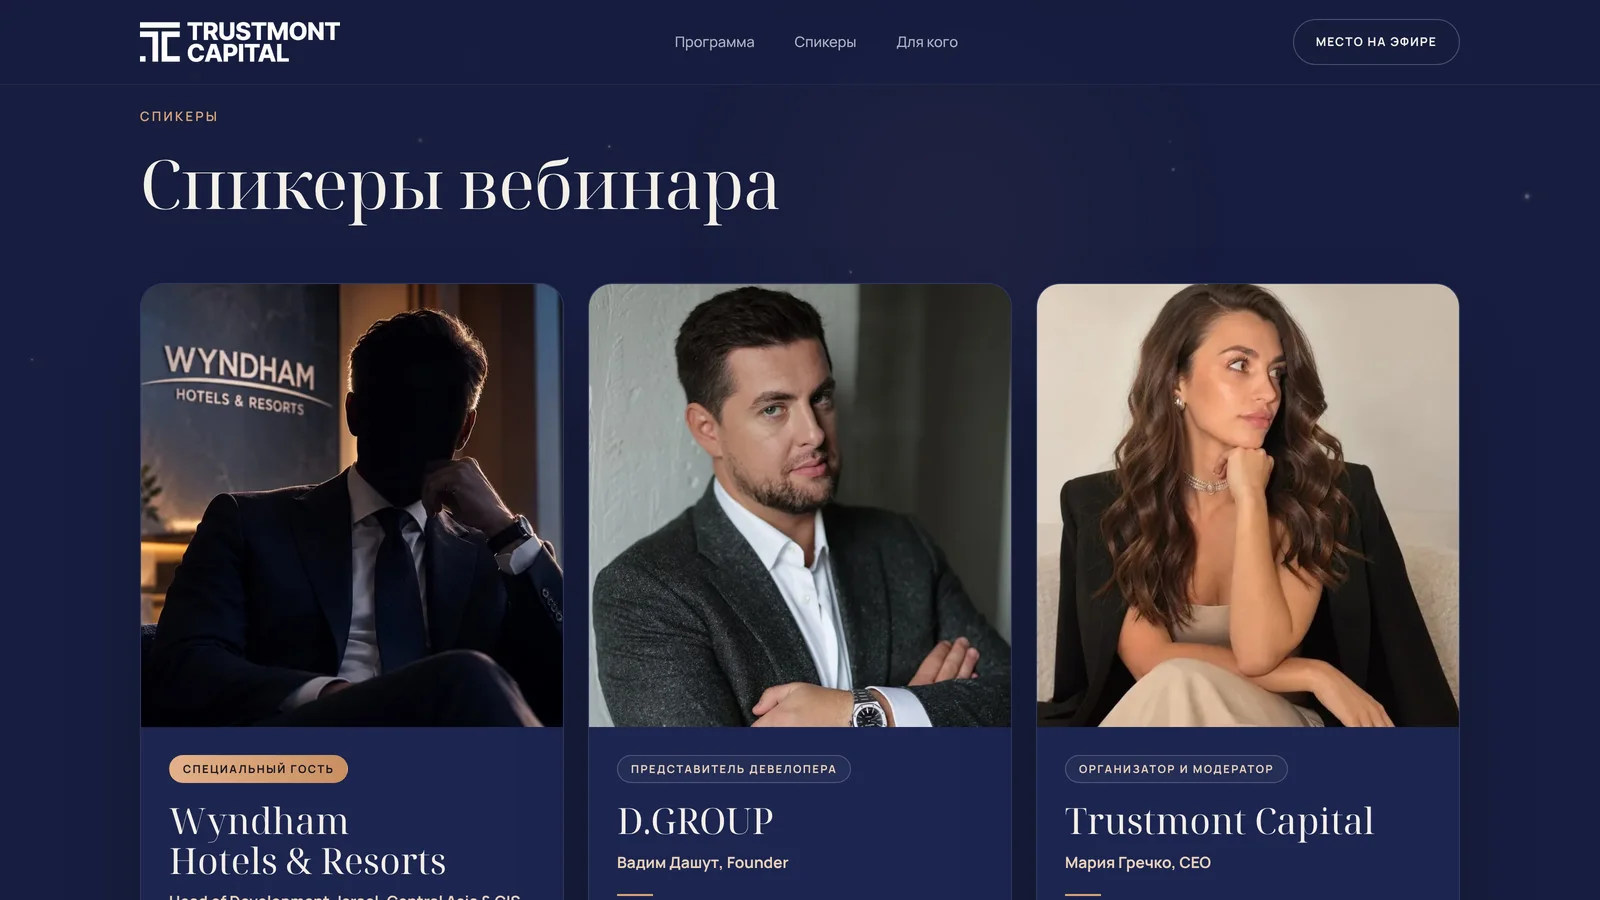
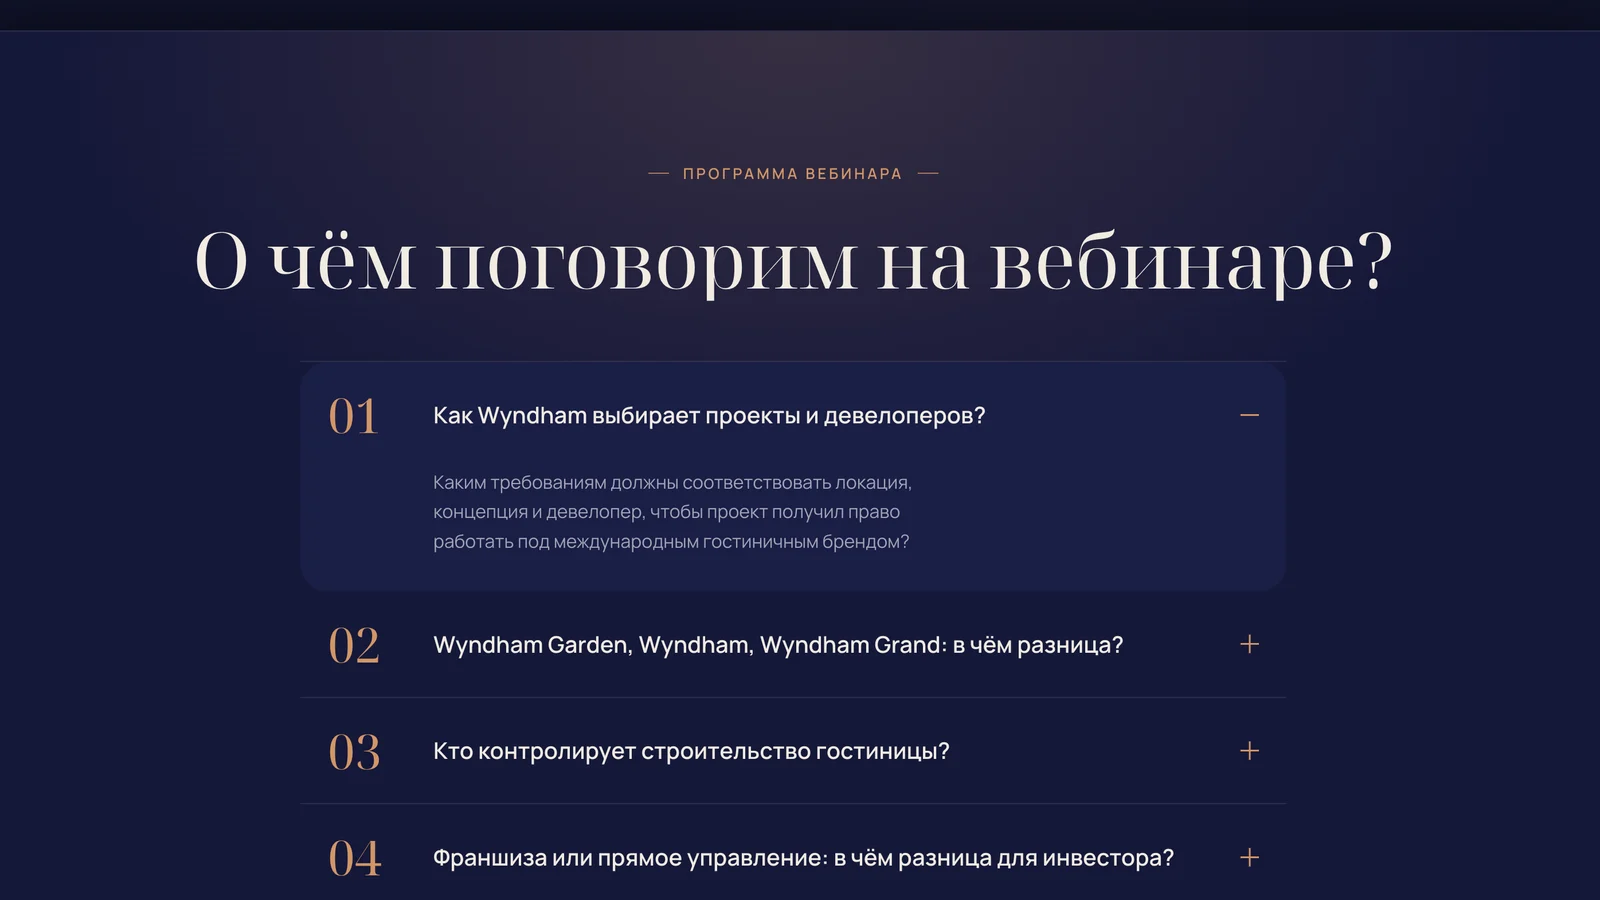
Trustmont: use Lana's screenshots for shots 2-3 (programme, registration)
Claude-Session: https://claude.ai/code/session_01V7UVypz3NbDPX4nkU3ToFa

diff --git a/index.html b/index.html
@@ -35,7 +35,7 @@
 <article><span class="benefit-number mono">04</span><div><h3>Made for the real world.</h3><p>Responsive, considered and ready for real users. Craft that carries through from the first mockup to the final build.</p></div><span class="benefit-icon lavender">✧</span></article></div></section>
 <section class="work section-pad" id="work"><div class="work-arrival"><div class="work-arrival-pin"><div class="section-heading"><div><p class="eyebrow"><i></i> 03 / SELECTED WORK</p><h2>Less talking.<br><span class="serif">More making.</span></h2></div><div><p>A few things we’ve put into the world.<br>Different challenges. The same care.</p><span class="mono work-hint">SCROLL TO UNSTACK ↓</span></div></div></div></div><div class="work-stack">
 <article class="project project-reelly" style="--index:0"><div class="project-info"><span class="mono">01 / REAL ESTATE PLATFORM</span><h3>Reelly<span>↗</span></h3><p>Finding a new perspective<br>on real estate.</p><div class="tags"><span>Product design</span><span>Development</span></div><button class="project-open" data-project="reelly">Explore project <span>↗</span></button><span class="project-index mono">[ 01 / 05 ]</span></div><button class="project-image" data-project="reelly" aria-label="Explore Reelly"><span class="shots"><img src="assets/work-reelly.webp" alt="Reelly AI website: AI ecosystem for real estate sellers with a mobile property search" loading="lazy"><img src="assets/work-reelly-2.webp" alt="Reelly mentors from top UAE market players" loading="lazy"><img src="assets/work-reelly-3.webp" alt="Reelly professional tools for off-plan agents" loading="lazy"></span><span>TAKE A CLOSER LOOK ↗</span></button></article>
-<article class="project project-trustmont" style="--index:1"><div class="project-info"><span class="mono">02 / WEBINAR LANDING</span><h3>Trustmont<span>↗</span></h3><p>An invitation that feels<br>like a ticket.</p><div class="tags"><span>UI / UX</span><span>Development</span><span>Registration</span></div><button class="project-open" data-project="trustmont">Explore project <span>↗</span></button><span class="project-index mono">[ 02 / 05 ]</span></div><button class="project-image" data-project="trustmont" aria-label="Explore Trustmont"><span class="shots"><img src="assets/work-trustmont.webp" alt="Trustmont Capital webinar landing with a dark hero and a ticket-style card" loading="lazy"><img src="assets/work-trustmont-2.webp" alt="Trustmont webinar speakers" loading="lazy"><img src="assets/work-trustmont-3.webp" alt="Trustmont webinar registration form" loading="lazy"></span><span>TAKE A CLOSER LOOK ↗</span></button></article>
+<article class="project project-trustmont" style="--index:1"><div class="project-info"><span class="mono">02 / WEBINAR LANDING</span><h3>Trustmont<span>↗</span></h3><p>An invitation that feels<br>like a ticket.</p><div class="tags"><span>UI / UX</span><span>Development</span><span>Registration</span></div><button class="project-open" data-project="trustmont">Explore project <span>↗</span></button><span class="project-index mono">[ 02 / 05 ]</span></div><button class="project-image" data-project="trustmont" aria-label="Explore Trustmont"><span class="shots"><img src="assets/work-trustmont.webp" alt="Trustmont Capital webinar landing with a dark hero and a ticket-style card" loading="lazy"><img src="assets/work-trustmont-2.webp?v=2" alt="Trustmont webinar programme" loading="lazy"><img src="assets/work-trustmont-3.webp?v=2" alt="Trustmont webinar registration form" loading="lazy"></span><span>TAKE A CLOSER LOOK ↗</span></button></article>
 <article class="project project-lina" style="--index:2"><div class="project-info"><span class="mono">03 / MUSIC STUDIO WEBSITE</span><h3>Lina’s Studio<span>↗</span></h3><p>A stage for every<br>new voice.</p><div class="tags"><span>Web design</span><span>Development</span><span>Multilingual</span></div><button class="project-open" data-project="lina">Explore project <span>↗</span></button><span class="project-index mono">[ 03 / 05 ]</span></div><button class="project-image" data-project="lina" aria-label="Explore Lina’s Studio"><span class="shots"><img src="assets/work-lina.webp" alt="Lina’s Music Studio website with a concert photo and a trial lesson call to action" loading="lazy"><img src="assets/work-lina-2.webp?v=2" alt="Lina’s Studio founder Lina Poverga" loading="lazy"><img src="assets/work-lina-3.webp?v=2" alt="Lina’s Studio rehearsal halls for rent" loading="lazy"></span><span>TAKE A CLOSER LOOK ↗</span></button></article>
 <article class="project project-money24" style="--index:3"><div class="project-info"><span class="mono">04 / INVESTMENT REAL ESTATE</span><h3>Money24<span>↗</span></h3><p>Property abroad,<br>returns made clear.</p><div class="tags"><span>UI / UX</span><span>Webflow</span><span>Lead form</span></div><button class="project-open" data-project="money24">Explore project <span>↗</span></button><span class="project-index mono">[ 04 / 05 ]</span></div><button class="project-image" data-project="money24" aria-label="Explore Money24 Estate"><span class="shots"><img src="assets/work-money24.webp" alt="Money24 Estate website: dark hero with an orange headline and a sea-view bedroom photo" loading="lazy"><img src="assets/work-money24-2.webp" alt="Money24 Estate investment projects" loading="lazy"><img src="assets/work-money24-3.webp" alt="Money24 Estate catalogue request form" loading="lazy"></span><span>TAKE A CLOSER LOOK ↗</span></button></article>
 <article class="project project-blissful" style="--index:4"><div class="project-info"><span class="mono">05 / ONLINE COURSE PLATFORM</span><h3>Blissful Birthing<span>↗</span></h3><p>A softer, golden path<br>to birth.</p><div class="tags"><span>Web design</span><span>Course platform</span><span>Sales page</span></div><button class="project-open" data-project="blissful">Explore project <span>↗</span></button><span class="project-index mono">[ 05 / 05 ]</span></div><button class="project-image" data-project="blissful" aria-label="Explore Blissful Birthing"><span class="shots"><img src="assets/work-blissful.webp" alt="Blissful Birthing course website with a golden script headline over a warm photo" loading="lazy"></span><span>TAKE A CLOSER LOOK ↗</span></button></article>
